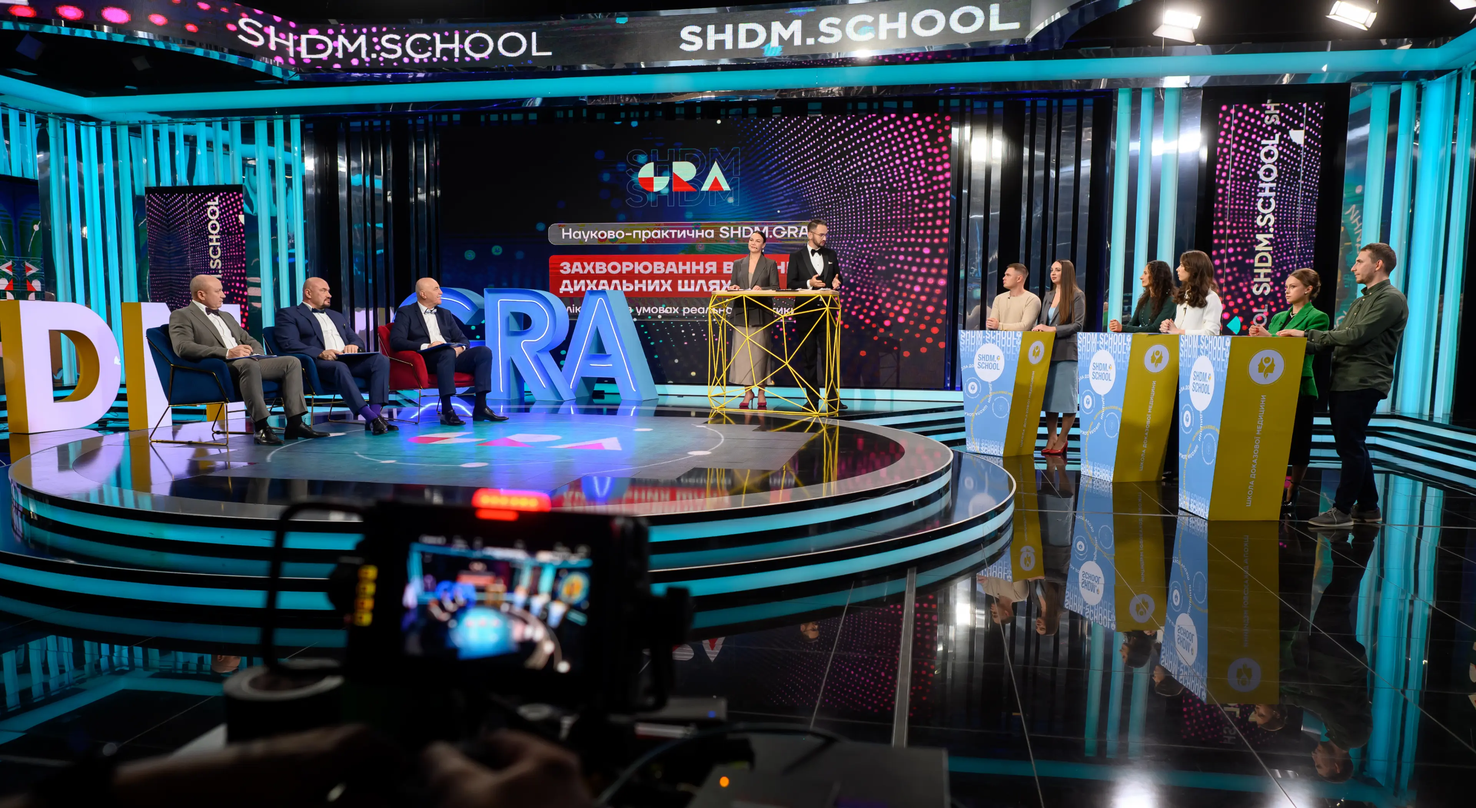
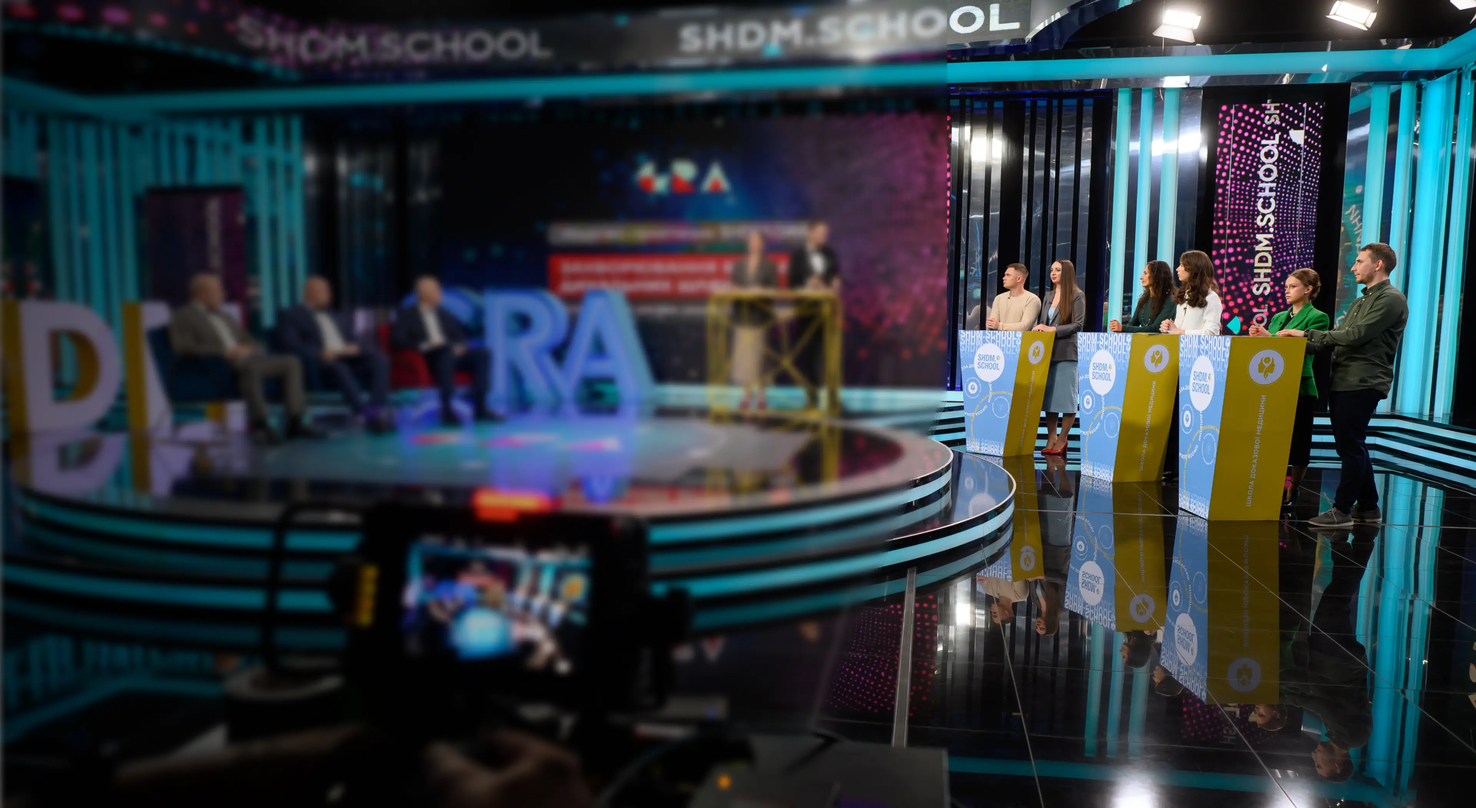
Fixed hero block

diff --git a/assets/css/style.css b/assets/css/style.css
@@ -562,11 +562,18 @@ body {
 }
 
 h1 {
-  font-size: 75px;
+  font-size: 140px;
   font-weight: 700;
-  line-height: 85px;
+  line-height: 160px;
   --tw-text-opacity: 1;
   color: rgb(255 255 255 / var(--tw-text-opacity, 1));
+}
+
+@media (max-width: 1440px) {
+  h1 {
+    font-size: 80px;
+    line-height: 85px;
+  }
 }
 
 h2 {
@@ -609,7 +616,6 @@ h6 {
   justify-content: center;
   padding: 0px 80px;
   height: 100%;
-  max-width: 1440px;
 }
 
 span.mark {
@@ -708,12 +714,8 @@ form input {
   bottom: 10%;
 }
 
-.left-0 {
-  left: 0px;
-}
-
-.right-0 {
-  right: 0px;
+.left-5 {
+  left: 1.25rem;
 }
 
 .right-10 {
@@ -740,24 +742,8 @@ form input {
   top: 2rem;
 }
 
-.top-\[10\%\] {
-  top: 10%;
-}
-
 .top-\[15\%\] {
   top: 15%;
-}
-
-.left-20 {
-  left: 5rem;
-}
-
-.left-10 {
-  left: 2.5rem;
-}
-
-.left-5 {
-  left: 1.25rem;
 }
 
 .z-10 {
@@ -861,20 +847,12 @@ form input {
   height: 60px;
 }
 
-.h-\[900px\] {
-  height: 900px;
-}
-
 .h-\[950px\] {
   height: 950px;
 }
 
 .h-full {
   height: 100%;
-}
-
-.w-1\/4 {
-  width: 25%;
 }
 
 .w-\[242px\] {
@@ -891,6 +869,10 @@ form input {
 
 .w-\[55px\] {
   width: 55px;
+}
+
+.w-\[58\%\] {
+  width: 58%;
 }
 
 .w-\[60\%\] {
@@ -926,23 +908,20 @@ form input {
   width: 100%;
 }
 
+.w-\[65\%\] {
+  width: 65%;
+}
+
+.w-\[66\%\] {
+  width: 66%;
+}
+
+.w-\[67\%\] {
+  width: 67%;
+}
+
 .max-w-3xl {
   max-width: 48rem;
-}
-
-.rotate-180 {
-  --tw-rotate: 180deg;
-  transform: translate(var(--tw-translate-x), var(--tw-translate-y)) rotate(var(--tw-rotate)) skewX(var(--tw-skew-x)) skewY(var(--tw-skew-y)) scaleX(var(--tw-scale-x)) scaleY(var(--tw-scale-y));
-}
-
-.rotate-\[-180\] {
-  --tw-rotate: -180;
-  transform: translate(var(--tw-translate-x), var(--tw-translate-y)) rotate(var(--tw-rotate)) skewX(var(--tw-skew-x)) skewY(var(--tw-skew-y)) scaleX(var(--tw-scale-x)) scaleY(var(--tw-scale-y));
-}
-
-.rotate-\[180\] {
-  --tw-rotate: 180;
-  transform: translate(var(--tw-translate-x), var(--tw-translate-y)) rotate(var(--tw-rotate)) skewX(var(--tw-skew-x)) skewY(var(--tw-skew-y)) scaleX(var(--tw-scale-x)) scaleY(var(--tw-scale-y));
 }
 
 .grid-cols-2 {
@@ -951,10 +930,6 @@ form input {
 
 .grid-cols-5 {
   grid-template-columns: repeat(5, minmax(0, 1fr));
-}
-
-.flex-row-reverse {
-  flex-direction: row-reverse;
 }
 
 .flex-col {
@@ -1168,12 +1143,6 @@ form input {
   --tw-shadow: 0 4px 6px -1px rgb(0 0 0 / 0.1), 0 2px 4px -2px rgb(0 0 0 / 0.1);
   --tw-shadow-colored: 0 4px 6px -1px var(--tw-shadow-color), 0 2px 4px -2px var(--tw-shadow-color);
   box-shadow: var(--tw-ring-offset-shadow, 0 0 #0000), var(--tw-ring-shadow, 0 0 #0000), var(--tw-shadow);
-}
-
-.backdrop-blur-sm {
-  --tw-backdrop-blur: blur(4px);
-  -webkit-backdrop-filter: var(--tw-backdrop-blur) var(--tw-backdrop-brightness) var(--tw-backdrop-contrast) var(--tw-backdrop-grayscale) var(--tw-backdrop-hue-rotate) var(--tw-backdrop-invert) var(--tw-backdrop-opacity) var(--tw-backdrop-saturate) var(--tw-backdrop-sepia);
-  backdrop-filter: var(--tw-backdrop-blur) var(--tw-backdrop-brightness) var(--tw-backdrop-contrast) var(--tw-backdrop-grayscale) var(--tw-backdrop-hue-rotate) var(--tw-backdrop-invert) var(--tw-backdrop-opacity) var(--tw-backdrop-saturate) var(--tw-backdrop-sepia);
 }
 
 .transition {

diff --git a/index.html b/index.html
@@ -14,10 +14,10 @@
         <title>SHDM.SCHOOL</title>
     </head>
     <body>
-        <section class="hero"
+        <section class="hero container items-start"
             style="background-image: url('./assets/images/hero-background.webp');">
             <div
-                class="container w-[60%] backdrop-blur-sm pt-[60px] h-full items-start justify-start">
+                class=" w-[67%] pt-[60px] h-full items-start justify-start">
                 <div class="h-[55px] w-fit"><img
                         class="w-full h-full object-contain"
                         src="./assets/images/icons/logo.webp"
@@ -27,11 +27,12 @@
                     <div class="flex items-center"><img
                             style="width: 40px;height: 40px;"
                             src="./assets/images/icons/top.webp" alt></div>
-                    <h2 class="text-white mt-2">Проєкт #1 в області
+                    <h2 class="text-white mt-2 font-gilroyMedium">Проєкт #1 в
+                        області
                         оториноларингології</h2>
                 </div>
 
-                <h5 class="text-white mt-8">Освітній проєкт для лікарів
+                <h5 class="text-white mt-8 w-[58%]">Освітній проєкт для лікарів
                     первинної
                     ланки
                     та оториноларингологів, у фокусі якого – ЛОР патології та
@@ -460,7 +461,6 @@
                 </form>
             </div>
         </section>
-
         <section
             class="container relative bg-white py-[150px] flex flex-col items-center justify-center h-[950px]">
             <!-- Лівий фон -->
@@ -544,7 +544,6 @@
 
             </div>
         </section>
-
         <section class="soldier-med"
             style="background-image: url('./assets/images/soldier-med-background.webp');">
             <div

diff --git a/assets/css/dev.css b/assets/css/dev.css
@@ -10,7 +10,7 @@
     justify-content: center;
   }
   h1 {
-    @apply text-white font-bold text-[75px] leading-[85px];
+    @apply text-white font-bold text-[140px] leading-[160px] xl:text-[80px] xl:leading-[85px];
   }
   h2 {
     @apply text-white font-medium text-[30px] leading-[35px] font-gilroyBold;
@@ -32,7 +32,6 @@
     justify-content: center;
     padding: 0px 80px;
     height: 100%;
-    max-width: 1440px;
   }
   span.mark {
     background-image: url("../images/icons/mark-icon.webp");
